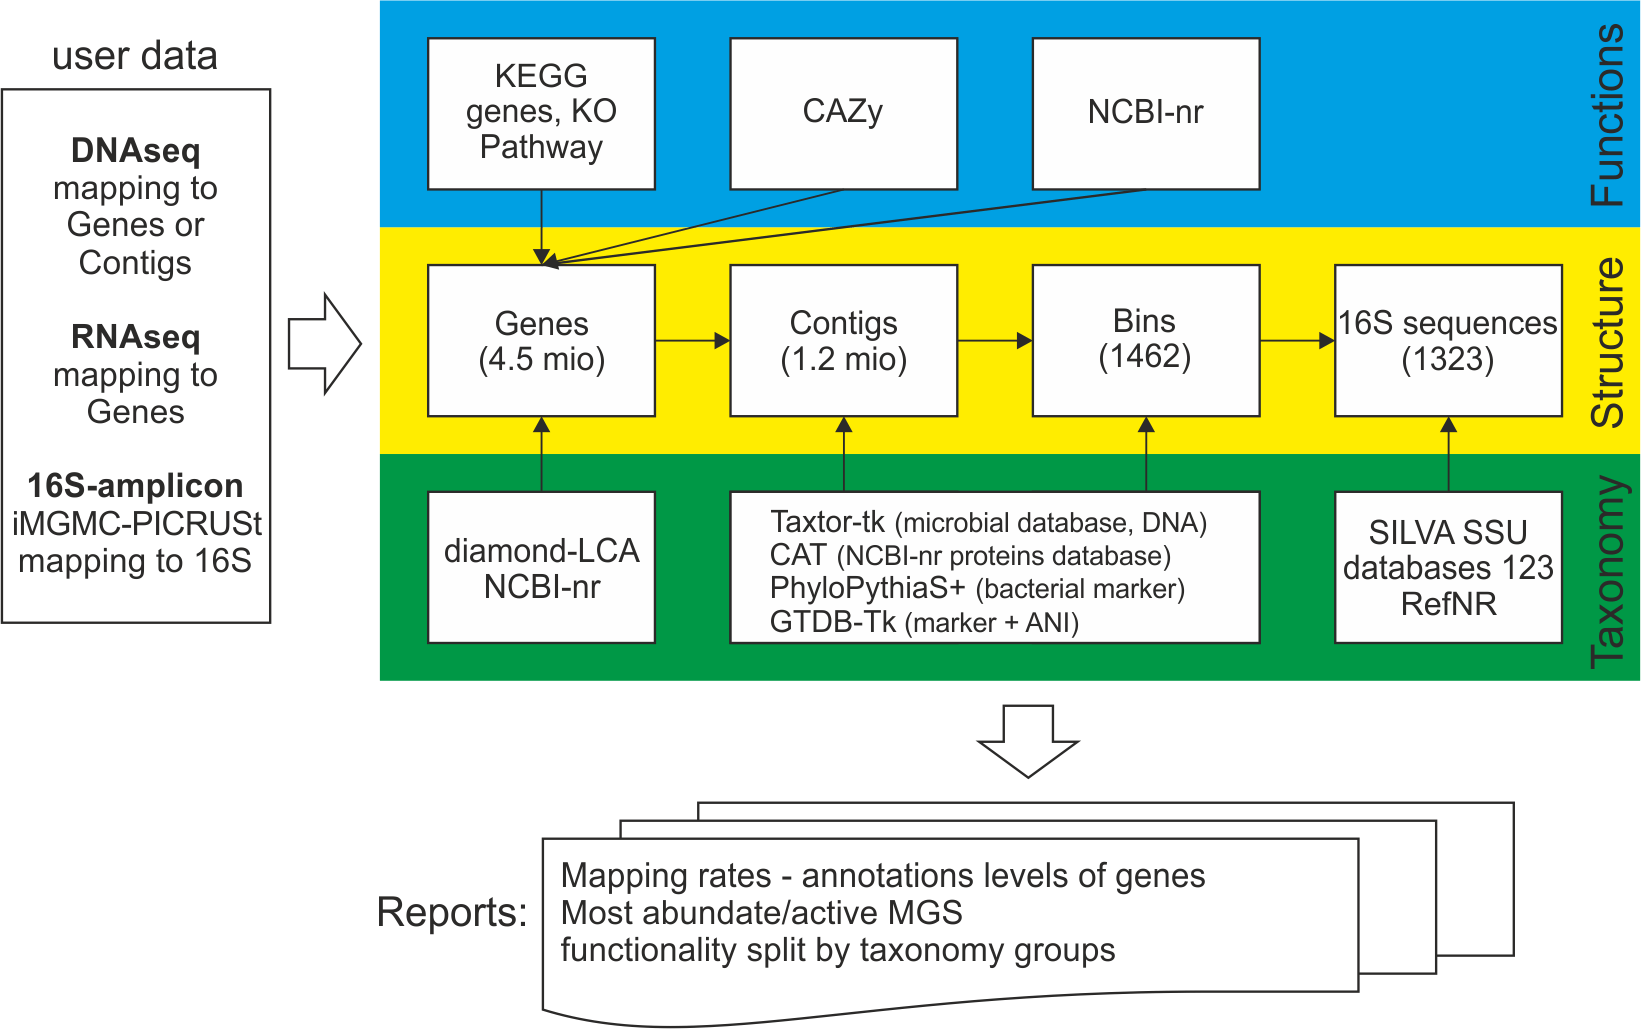
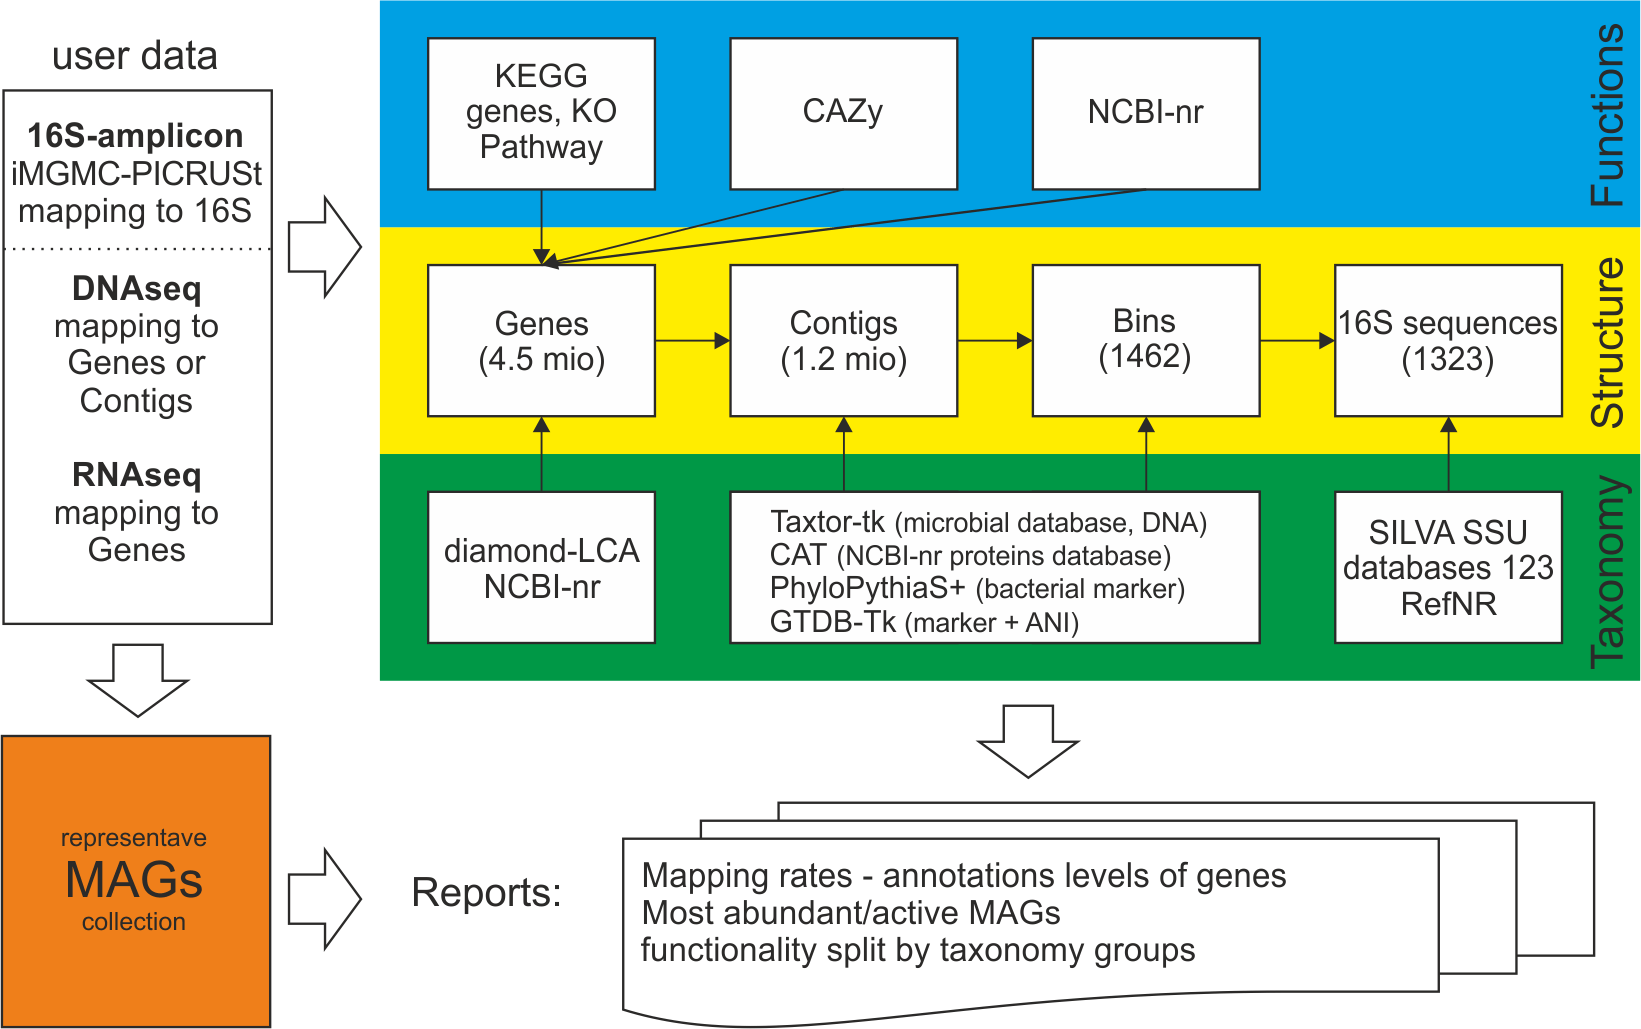
MAGs use

diff --git a/MAG-pipeline.md b/MAG-pipeline.md
@@ -1,0 +1,89 @@
+# Gene catalog pipeline
+
+## Table of Contents
+
+[Description](#Description)  
+[Requirements](#Requirements)  
+[Data pre-processing](#Data-pre-processing)  
+[MAGs-settings](#MAGs-settings)  
+[Mapping](#Mapping)  
+[TPM-normalization](#TPM-normalization)  
+[Basic-statistics](#Basic-statistics)  
+
+# Description
+
+![iMGMC-pipeline](/images/pipeline.png)
+
+# Requirements
+* [BBmap](https://sourceforge.net/projects/bbmap/)
+* [samtools](http://samtools.sourceforge.net/)
+* [sambamba](http://lomereiter.github.io/sambamba/)
+* iMGMC repository
+
+
+# Data-pre-processing
+
+**1. Demultiplexing and adapter removing**
+
+All reads were processed with Ilumina bcl2fastq Conversion
+
+**2. Quality check of the reads**
+
+Very low quality should be trimmed. Otherwise you do not need to preform quality trimming or any kind of error correction. If you want to trim you data you can just remove the "untrim" parameter in the next step. Please see [bbmap/bbduk documentation](https://jgi.doe.gov/data-and-tools/bbtools/bb-tools-user-guide) for more details.
+
+**3. Removal of contaminated host**
+
+You can use bbmap and the reference mouse genome from [Ensembl](http://www.ensembl.org/Mus_musculus/Info/Index).
+
+    # for each Sample ($SampleName) with ReadR1 ($Fastq_R1) and ReadR2 ($Fastq_R2) we preform
+    bbmap.sh -Xmx50g usejni=t unpigz=t threads=10 fast=t \
+    minratio=0.9 maxindel=3 bwr=0.16 bw=12 fast minhits=2 qtrim=r trimq=10 untrim idtag printunmappedcount kfilter=25 maxsites=1 k=14 \
+    in=${Fastq_R1} \
+    in2=${Fastq_R2} \
+    ref=Mus_musculus.GRCm38.75.dna_rm.toplevel.fa.gz \
+    statsfile=${SampleName}_rmhost_filtering.stats \
+    outu=${SampleName}_R1_rmhost.fastq.gz \
+    outu2=${SampleName}_R2_rmhost.fastq.gz
+
+# MAGs-settings
+
+**1. Select and download MAG collection**
+
+    # only high quality MAGS (comp>90, con<5) hqMAG (recommended resource)
+	wget -O iMGMC-hqMAGs-dereplicated_genomes.tar.gz "https://onedrive.live.com/download?cid=36ADEB4B3D109F6F&resid=36ADEB4B3D109F6F%2137129&authkey=AFbfuXtd4Cm9kHQ"
+	# all mMAG even with medium Quality (comp>50, con<10) to cover full diversity
+	wget -O iMGMC-mMAGs-dereplicated_genomes.tar.gz "https://onedrive.live.com/download?cid=36ADEB4B3D109F6F&resid=36ADEB4B3D109F6F%2137126&authkey=ADFYgL1YRjtb-Vo"
+	
+
+**2. Index iMGMC catalog**
+
+	tar -xzf iMGMC-hqMAGs-dereplicated_genomes.tar.gz
+    bbsplit.sh ref=iMGMC-hqMAGs-dereplicated_genomes
+
+
+# Mapping
+
+For this tutorial we use bbmap for mapping the reads to MAG collection. You can use an other mapper and process the standard output (sam-files) with bbmap to summarize the counts. Please see [bbmap documentation](https://jgi.doe.gov/data-and-tools/bbtools/bb-tools-user-guide) for more details.
+
+    # for each Sample ($SampleName) with ReadR1 ($Fastq_R1) and ReadR2 ($Fastq_R2) we preform:
+    bbsplit.sh -Xmx30g unpigz=t threads=${usedCores} minid=0.90 \
+    statsfile=${SampleName}.statsfile \
+    scafstats=${SampleName}.scafstats \
+    covstats=${SampleName}.covstat \
+    rpkm=${SampleName}.rpkm \
+    sortscafs=f nzo=f \
+    in=${SampleName}_R1_rmhost.fastq.gz \
+    in2=${SampleName}_R2_rmhost.fastq.gz
+
+
+# TPM-normalization
+You need to normalize you samples counts for a comparison. Here we use TPM-normalization to create TPM-${SampleID}.txt form ${SampleName}.covstat :
+
+    makeTPMfromCovStats.sh ${SampleName}.covstat
+
+
+# Basic-statistics
+
+under construction
+
+

diff --git a/README.md b/README.md
@@ -51,9 +51,11 @@ European Nucleotide Archive: [ERP008710](https://www.ebi.ac.uk/ena/data/view/ERP
 
 We recommend the use of [Bioconda](http://bioconda.github.io/)
 
-### Use of the gene catalog (mapping pipeline)
+### Use of the gene catalog (mapping pipeline using the catalog or MAGs)
 
 [Instruction to process your own WGS samples with iMGMC](/genecatalog-pipeline.md)
+
+[Using MAGs with iMGMC/sMAGS with your own WGS samples ](/MAG-pipeline.md)
 
 ### PICRUSt (mouse gut specific)
 
@@ -75,4 +77,12 @@ We recommend the use of [Bioconda](http://bioconda.github.io/)
 
 [Code for the evaluation of single-wise assembly MAGs versus all-in-one assembly MAGs](/evaluation/README.md)
 
+
+
+Please open an issue if the problem cannot be solved. We will need to know how to reproduce your problem.
+
+Acknowledgements:
+TS was funded by the Helmholtz Association (VH-NG-933), by the Deutsche Forschungsgemeinschaft (DFG, German Research Foundation, STR-1343/1 and STR-1343/2) and the European Union (StG337251).
+JFB was funded by the DFG under Germany`s Excellence Strategy – EXC 22167-390884018 and by the DFG Collaborative Research Center (CRC) 1182 “Origin and Function of Metaorganisms”. 
+TC received funding from the DFG (project CL481/2-1 and grants within Collaborative Research Center 1382).
 
